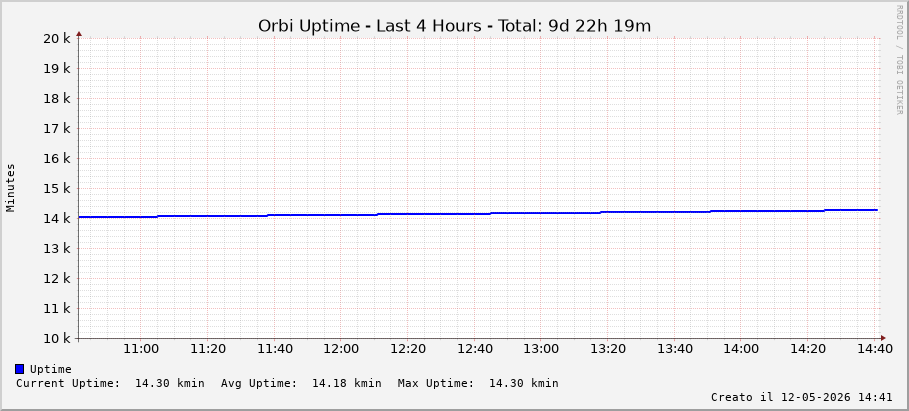
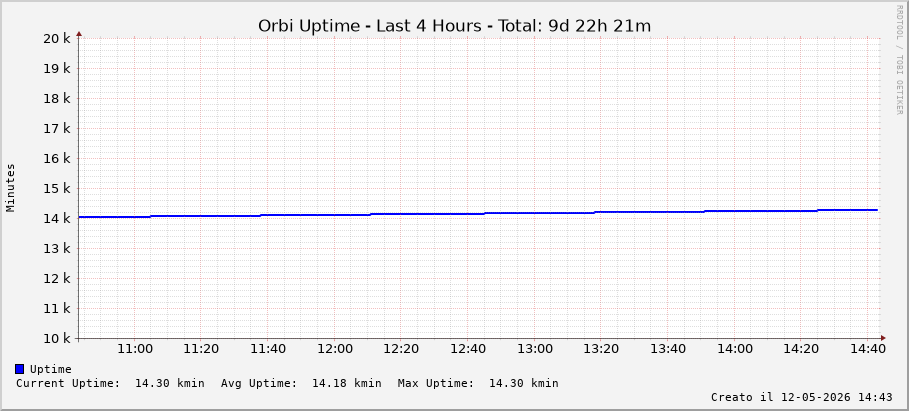
RBR50 update 2026-05-12 14:44:01

diff --git a/index.html b/index.html
@@ -41,38 +41,38 @@
 
 <div class="graph-container">
     <h2>Ultime 4 Ore</h2>
-    <img class="graph" src="images/orbi_traffic_1h.png?v=1778589721" alt="Traffico Ultima Ora">
-    <img class="graph" src="images/orbi_uptime_1h.png?v=1778589721" alt="Uptime Ultima Ora">
+    <img class="graph" src="images/orbi_traffic_1h.png?v=1778589841" alt="Traffico Ultima Ora">
+    <img class="graph" src="images/orbi_uptime_1h.png?v=1778589841" alt="Uptime Ultima Ora">
 </div>
 
 <div class="graph-container">
     <h2>Ultimo Giorno</h2>
-    <img class="graph" src="images/orbi_traffic_1d.png?v=1778589721" alt="Traffico Ultimo Giorno">
-    <img class="graph" src="images/orbi_uptime_1d.png?v=1778589721" alt="Uptime Ultimo Giorno">
+    <img class="graph" src="images/orbi_traffic_1d.png?v=1778589841" alt="Traffico Ultimo Giorno">
+    <img class="graph" src="images/orbi_uptime_1d.png?v=1778589841" alt="Uptime Ultimo Giorno">
 </div>
 
 <div class="graph-container">
     <h2>Ultima Settimana</h2>
-    <img class="graph" src="images/orbi_traffic_1w.png?v=1778589721" alt="Traffico Ultima Settimana">
-    <img class="graph" src="images/orbi_uptime_1w.png?v=1778589721" alt="Uptime Ultima Settimana">
+    <img class="graph" src="images/orbi_traffic_1w.png?v=1778589841" alt="Traffico Ultima Settimana">
+    <img class="graph" src="images/orbi_uptime_1w.png?v=1778589841" alt="Uptime Ultima Settimana">
 </div>
 
 <div class="graph-container">
     <h2>Ultimo Mese</h2>
-    <img class="graph" src="images/orbi_traffic_1m.png?v=1778589721" alt="Traffico Ultimo Mese">
-    <img class="graph" src="images/orbi_uptime_1m.png?v=1778589721" alt="Uptime Ultimo Mese">
+    <img class="graph" src="images/orbi_traffic_1m.png?v=1778589841" alt="Traffico Ultimo Mese">
+    <img class="graph" src="images/orbi_uptime_1m.png?v=1778589841" alt="Uptime Ultimo Mese">
 </div>
 
 <div class="graph-container">
     <h2>Ultimo Anno</h2>
-    <img class="graph" src="images/orbi_traffic_1y.png?v=1778589721" alt="Traffico Ultimo Anno">
-    <img class="graph" src="images/orbi_uptime_1y.png?v=1778589721" alt="Uptime Ultimo Anno">
+    <img class="graph" src="images/orbi_traffic_1y.png?v=1778589841" alt="Traffico Ultimo Anno">
+    <img class="graph" src="images/orbi_uptime_1y.png?v=1778589841" alt="Uptime Ultimo Anno">
 </div>
 
 <div class="graph-container">
     <h2>Ultimi 5 Anni</h2>
-    <img class="graph" src="images/orbi_traffic_5y.png?v=1778589721" alt="Traffico Ultimi 5 Anni">
-    <img class="graph" src="images/orbi_uptime_5y.png?v=1778589721" alt="Uptime Ultimi 5 Anni">
+    <img class="graph" src="images/orbi_traffic_5y.png?v=1778589841" alt="Traffico Ultimi 5 Anni">
+    <img class="graph" src="images/orbi_uptime_5y.png?v=1778589841" alt="Uptime Ultimi 5 Anni">
 </div>
 
 <div class="footer">
